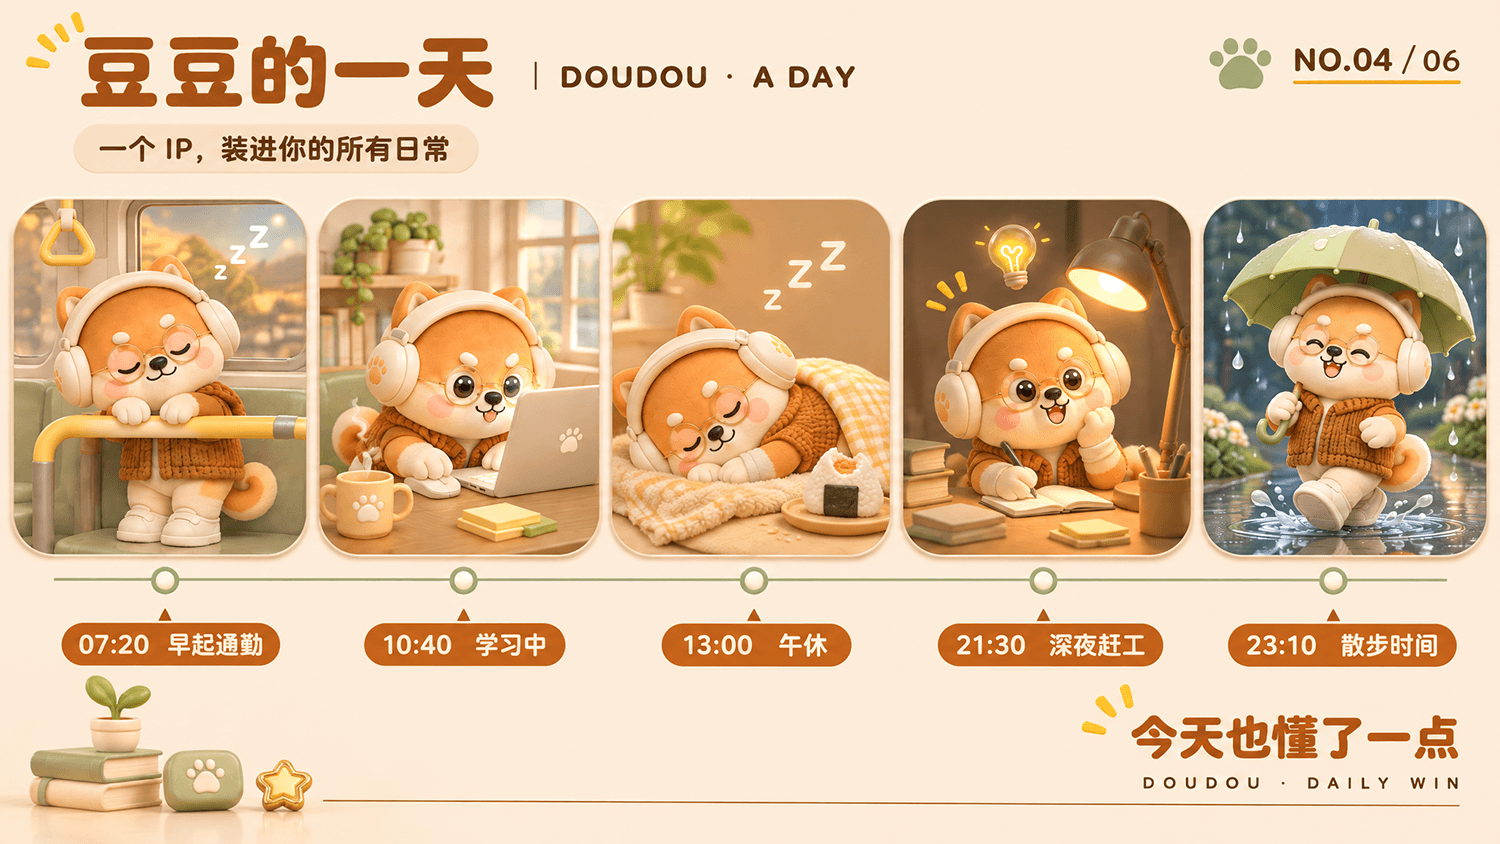
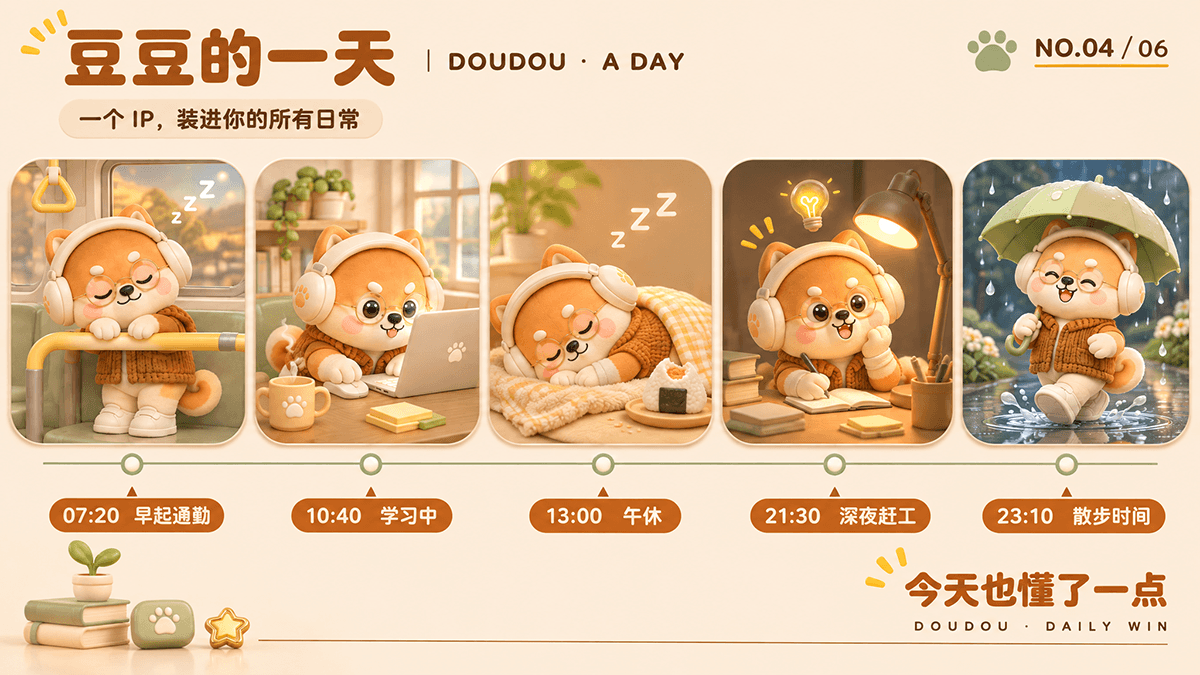
作品集更新：新增中国省市海报系列、替换豆豆IP图片
- 新增作品：中国省市主视觉海报系列设计（35 张全国各省市海报，平面设计分类）
- 豆豆 IP 形象设计图片由 5 张替换为 6 张（新增品牌主视觉KV与社媒Banner），封面更换为主视觉KV

diff --git a/assets/js/works-data.js b/assets/js/works-data.js
@@ -266,19 +266,20 @@ window.WORKS_DATA=[
   "title": "豆豆 IP形象设计（潮玩盲盒企划）",
   "category": "品牌建设",
   "date": "2026-11-01T00:00:00.000Z",
-  "description": "豆豆是一套面向 AI 学习搭子概念的潮玩盲盒 IP 企划。以暖橙柴犬为原型，塑造戴眼镜与耳机、穿针织外套的治愈系角色，延展角色三视图设定规范、尺寸比例与材质色彩标准、日常九则表情包、豆豆的一天时间轴长卷与功能说明页，并配套社媒封面 Banner，形成从角色设定到商业落地的完整品牌视觉体系。",
+  "description": "豆豆是一套面向 AI 学习搭子概念的潮玩盲盒 IP 企划。以暖橙柴犬为原型，塑造戴眼镜与耳机、穿针织外套的治愈系角色，延展品牌主视觉 KV、角色三视图设定规范、尺寸比例与材质色彩标准、日常九则表情包、豆豆的一天时间轴长卷、功能说明页与社媒封面 Banner，形成从角色设定到商业落地的完整品牌视觉体系。",
   "tech": [
-   "IP形象设计，潮玩盲盒，角色设定规范，表情包设计，品牌视觉，社媒Banner"
+   "IP形象设计，潮玩盲盒，品牌主视觉KV，角色设定规范，表情包设计，品牌视觉，社媒Banner"
   ],
   "client": "个人项目",
   "project_url": "",
   "protected": false,
   "images": [
    "assets/works/doudou/01.png",
-   "assets/works/doudou/02.jpg",
-   "assets/works/doudou/03.jpg",
+   "assets/works/doudou/02.png",
+   "assets/works/doudou/03.png",
    "assets/works/doudou/04.png",
-   "assets/works/doudou/05.png"
+   "assets/works/doudou/05.png",
+   "assets/works/doudou/06.png"
   ]
  },
  {
@@ -304,6 +305,57 @@ window.WORKS_DATA=[
    "assets/works/slowtravel/07.jpg",
    "assets/works/slowtravel/08.jpg",
    "assets/works/slowtravel/09.jpg"
+  ]
+ },
+ {
+  "id": 43,
+  "cover": "assets/works/china-cities-cover.jpg",
+  "title": "中国省市主视觉海报系列设计",
+  "category": "平面设计",
+  "date": "2026-11-01T00:00:00.000Z",
+  "description": "中国省市主视觉海报系列以「山河入画，一城一故乡」为主题，覆盖全国 34 个省级行政区。每幅海报以书法字体与省份简称印章为标识，用飘带式山水长卷串联地标建筑、自然风光、产业成就与地域风物，配以城市宣传语，将地域文化与现代发展凝练成一套统一而富有地方辨识度的主视觉模板。",
+  "tech": [
+   "海报设计，城市主视觉，文旅宣传，插画合成，书法字体设计，AIGC视觉"
+  ],
+  "client": "个人项目",
+  "project_url": "",
+  "protected": false,
+  "images": [
+   "assets/works/china-cities/01.jpg",
+   "assets/works/china-cities/02.jpg",
+   "assets/works/china-cities/03.jpg",
+   "assets/works/china-cities/04.jpg",
+   "assets/works/china-cities/05.jpg",
+   "assets/works/china-cities/06.jpg",
+   "assets/works/china-cities/07.jpg",
+   "assets/works/china-cities/08.jpg",
+   "assets/works/china-cities/09.jpg",
+   "assets/works/china-cities/10.jpg",
+   "assets/works/china-cities/11.jpg",
+   "assets/works/china-cities/12.jpg",
+   "assets/works/china-cities/13.jpg",
+   "assets/works/china-cities/14.jpg",
+   "assets/works/china-cities/15.jpg",
+   "assets/works/china-cities/16.jpg",
+   "assets/works/china-cities/17.jpg",
+   "assets/works/china-cities/18.jpg",
+   "assets/works/china-cities/19.jpg",
+   "assets/works/china-cities/20.jpg",
+   "assets/works/china-cities/21.jpg",
+   "assets/works/china-cities/22.jpg",
+   "assets/works/china-cities/23.jpg",
+   "assets/works/china-cities/24.jpg",
+   "assets/works/china-cities/25.jpg",
+   "assets/works/china-cities/26.jpg",
+   "assets/works/china-cities/27.jpg",
+   "assets/works/china-cities/28.jpg",
+   "assets/works/china-cities/29.jpg",
+   "assets/works/china-cities/30.jpg",
+   "assets/works/china-cities/31.jpg",
+   "assets/works/china-cities/32.jpg",
+   "assets/works/china-cities/33.jpg",
+   "assets/works/china-cities/34.jpg",
+   "assets/works/china-cities/35.jpg"
   ]
  }
 ];

diff --git a/design.html b/design.html
@@ -76,7 +76,7 @@
         <div class="listing-main">
           <header class="listing-header">
             <h1>全部项目</h1>
-            <p class="listing-count">共 14 个作品</p>
+            <p class="listing-count">共 15 个作品</p>
           </header>
           <section class="works-grid">
             <article class="work-item" data-category="ui">
@@ -202,6 +202,15 @@
                 <div class="work-meta">
                   <h3 class="work-name">城市慢游票·文旅海报系列设计</h3>
                   <p class="work-description">以复古邮票车票为视觉母题的九城文旅海报系列，统一票根版式、地标插画与城市限定配色，搭配手绘人物与实景合成，形成可延展的城市营销视觉模板。</p>
+                </div>
+              </div>
+            </article>
+            <article class="work-item" data-category="graphic">
+              <div class="work-item-body">
+                <div class="work-cover"><img src="assets/works/china-cities-cover.jpg" alt="中国省市主视觉海报系列设计" loading="lazy"></div>
+                <div class="work-meta">
+                  <h3 class="work-name">中国省市主视觉海报系列设计</h3>
+                  <p class="work-description">覆盖全国 34 个省级行政区的主视觉海报系列，以书法字体与省份印章为标识，用飘带式山水长卷串联地标、风光、产业与风物，凝练出统一的城市文旅视觉语言。</p>
                 </div>
               </div>
             </article>

diff --git a/index.html b/index.html
@@ -546,7 +546,7 @@
         <article class="project-card work-item" style="--card-index:4">
           <div class="project-card-head"><span class="project-number">05</span><div><span class="project-category">CHARACTER IP · BLIND BOX DESIGN</span><h3 class="work-name">豆豆 IP形象设计（潮玩盲盒企划）</h3></div><span class="project-year">2026</span></div>
           <p class="project-summary">把 AI 学习搭子做成一只治愈系柴犬，从角色设定到潮玩落地的一整套品牌视觉</p>
-          <div class="project-gallery project-gallery--brand"><img src="assets/works/doudou/01.png" alt="豆豆社媒封面 Banner" loading="lazy"><img src="assets/works/doudou/04.png" alt="豆豆的一天时间轴长卷" loading="lazy"></div>
+          <div class="project-gallery project-gallery--brand"><img src="assets/works/doudou/01.png" alt="豆豆品牌主视觉 KV" loading="lazy"><img src="assets/works/doudou/04.png" alt="豆豆的一天时间轴长卷" loading="lazy"></div>
           <span class="project-hint">OPEN CASE STUDY ↗</span>
         </article>
       </div>
